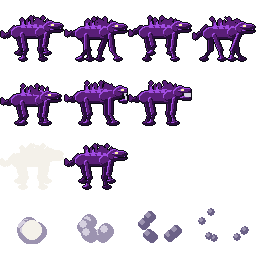
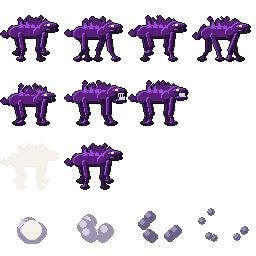
Shadowfall C2: every monster fits its cell (no margin clips); thinner wolf/hound teeth

diff --git a/shadowfall/art/src/make_monsters.py b/shadowfall/art/src/make_monsters.py
@@ -112,7 +112,6 @@ def build(name, w, h, fn, seed=1):
             return -min(hi - (P + n - 1), lo - (P + 1))
         return 0
     sx, sy = fit(box.left, box.right, w), fit(box.top, box.bottom, h)
-    print("DBG", name, w, "x", box.left - P, box.right - P, "y", box.top - P, box.bottom - P, sx, sy)
 
     def fr(ph, st=None):
         s = raw[ph, st].subsurface((P - sx, P - sy, w, h)).copy()
@@ -136,8 +135,8 @@ def build(name, w, h, fn, seed=1):
 
 # --- map monsters -------------------------------------------------------------------------
 def thornling(s, ph, st):
-    lean = (-2, 3, 1)[st] if st is not None else 0
-    cy = 14 + (2 if st == 0 else 0) - (round(abs(sin(ph))) if st is None else 0)
+    lean = (-1, 1, 1)[st] if st is not None else 0
+    cy = 15 + (1 if st in (0, 1) else 0) - (round(abs(sin(ph))) if st is None else 0)
     sw = round(sin(ph) * 3) if st is None else 0
     for i, hx in enumerate((12, 20)):
         o = sw * (1 - 2 * i)
@@ -149,7 +148,7 @@ def thornling(s, ph, st):
         if 240 < a < 300:
             continue
         r = math.radians(a)
-        ln = 8 if st == 1 else 5
+        ln = 6 if st == 1 else 5
         nx, ny = -sin(r), -cos(r)
         p = (cx + cos(r) * 8, cy - sin(r) * 8)
         tip = (cx + cos(r) * (8 + ln), cy - sin(r) * (8 + ln))
@@ -185,7 +184,7 @@ def barrow_wight(s, ph, st):
 
 
 def mere_lurker(s, ph, st):
-    step = (2.9, 3.5, 3.2)[st] if st is not None else 3.1
+    step = (2.7, 3.3, 3.0)[st] if st is not None else 2.9
     amp = 7 if st == 0 else 5
     o = (0, 1, .5)[st] if st is not None else .2 + .2 * (sin(ph) > 0)
     sp = []
@@ -212,9 +211,9 @@ def quad(s, ph, st, K):
     th = K["th"]
     c0 = 3 if st == 0 else 0
     b = 0 if st is not None else -round(abs(cos(ph)))
-    hd = (-3, 6, 2)[st] if st is not None else 0
+    hd = (-3, 4, 1)[st] if st is not None else 0
     by = 26 + c0 + b
-    hx, hy = 50 + hd, by + 2 + (2 if st == 0 else 0)
+    hx, hy = 48 + hd, by + 2 + (2 if st == 0 else 0)
     far, near = K["far"], K["body"]
 
     def leg(i, hip, isfar, po):
@@ -231,7 +230,7 @@ def quad(s, ph, st, K):
     for hip, isfar, po in ((18, 1, 0), (42, 1, pi)):
         leg(0, hip, isfar, po)
     # tail
-    tp = [(14 - i * 2.2, by + 4 + i * (1.3 if hnd else .6) + sin(ph + i * .6) * 2) for i in range(6)]
+    tp = [(14 - i * 1.3, by + 4 + i * (1.3 if hnd else .6) + sin(ph + i * .6) * 2) for i in range(6)]
     tr = [3 - i * .4 for i in range(6)] if hnd else [2.5 + i * .5 for i in range(6)]
     part(s, far, lambda t: chain(t, tp, tr))
     # ridge / mane
@@ -251,7 +250,7 @@ def quad(s, ph, st, K):
         poly(s, far[1], [(hx - 1, hy - 5), (hx + 1, hy - 12), (hx + 4, hy - 5)])
     part(s, near, lambda t: ellipse(t, W, hx - 7, hy - 6, 14, 12))
     o = (0, 1, .5)[st] if st is not None else 0
-    jaws(s, hx + 2, hy + 1, 12 if hnd else 10, 5, o, near, teeth=K["teeth"], gap=6)
+    jaws(s, hx + 2, hy + 1, 10, 5, o, near, teeth=K["teeth"], gap=6, tw=1, tl=3)
     if not hnd:
         poly(s, near[1], [(hx - 6, hy - 4), (hx - 3, hy - 13), (hx + 0, hy - 5)])
         poly(s, near[2], [(hx - 5, hy - 5), (hx - 3, hy - 11), (hx - 2, hy - 5)])
@@ -330,10 +329,10 @@ def ash_scarab(s, ph, st):
 
 
 def bog_wisp(s, ph, st):
-    dx = (-2, 4, 1)[st] if st is not None else 0
+    dx = (-1, 3, 1)[st] if st is not None else 0
     bob = 2 * sin(ph) if st is None else 0
     big = 1.3 if st == 1 else 1
-    sp = [(17 + dx - i * 2.1, 14 + bob + i * 1.5 + sin(ph + i * .8) * 2 * i / 7) for i in range(8)]
+    sp = [(17 + dx - i * 1.9, 14 + bob + i * 1.5 + sin(ph + i * .8) * 2 * i / 7) for i in range(8)]
     part(s, ("moss2", "moss3", "moss4"), lambda t: chain(t, sp, [7 * big - i * .8 for i in range(8)]))
     x, y = sp[0]
     circle(s, "light1", x - 2, y - 2, 3)
@@ -419,7 +418,7 @@ def gloom_slime(s, ph, st):
 
 
 def bone_crawler(s, ph, st):
-    dx = (-2, 3, 1)[st] if st is not None else 0
+    dx = (-1, 2, 1)[st] if st is not None else 0
     bob = -round(abs(sin(ph))) if st is None else 0
     gx = lambda x: x + dx
     for i, (hx, far) in enumerate(((7, 1), (12, 0), (17, 1), (21, 0))):
@@ -428,7 +427,7 @@ def bone_crawler(s, ph, st):
         lift = 2 * (cos(p) > .3) if st is None else 0
         fx, fy = hx + (hx - 14) // 2 + o + 1, 30 - lift
         if st is not None and i == 3:
-            fx, fy = (hx + 4, 17) if st == 0 else (hx + 10 + dx, 26) if st == 1 else (hx + 6, 24)
+            fx, fy = (hx + 4, 17) if st == 0 else (hx + 6 + dx, 26) if st == 1 else (hx + 6, 24)
         kx, ky = hx + (fx - hx) * .4 + (2 if hx > 14 else -2), 10 - (3 if st == 0 and i == 3 else 0)
         col = "ink3" if far else "ink5"
         pygame.draw.lines(s, c(col), False, [(gx(x) + OFF[0], y + OFF[1]) for x, y in ((hx, 17 + bob), (kx, ky), (fx, fy))], 1)
@@ -447,12 +446,12 @@ def bone_crawler(s, ph, st):
 
 
 def ember_imp(s, ph, st):
-    lean = (-2, 2, 0)[st] if st is not None else 0
+    lean = (-1, 1, 0)[st] if st is not None else 0
     bob = -round(abs(sin(ph))) if st is None else 0
     sw = round(sin(ph) * 3) if st is None else 0
     fl = round(sin(ph) * 3)
     poly(s, "ember1", [(13 + lean, 17 + bob), (5, 10 - fl + bob), (9, 12 + bob), (8, 18 + bob), (13 + lean, 19 + bob)])
-    tp = [(12 + lean - i * 2, 21 + bob - i * 1.3 + sin(ph + i) * 1.5) for i in range(5)]
+    tp = [(12 + lean - i * 1.6, 21 + bob - i * 1.3 + sin(ph + i) * 1.5) for i in range(5)]
     part(s, ("ember1", "ember2", "ember2"), lambda t: chain(t, tp, [1.5] * 5))
     circle(s, "light0", tp[-1][0] - 1, tp[-1][1] - 2, 2)
     px(s, "light1", tp[-1][0] - 1, tp[-1][1] - 2)
@@ -465,7 +464,7 @@ def ember_imp(s, ph, st):
     rect(s, "light1", 20 + lean, 8 + bob, 3, 2)
     px(s, "ink0", 22 + lean, 9 + bob)
     line(s, "ink0", (20 + lean, 12 + bob), (23 + lean, 12 + bob))
-    hand = ((12, 12), (26, 14), (21, 19))[st] if st is not None else (24 - sw, 20 + bob)
+    hand = ((12, 12), (24, 14), (21, 19))[st] if st is not None else (24 - sw, 20 + bob)
     part(s, ("ember1", "ember2", "ember3"), lambda t: limb(t, (19 + lean, 16 + bob), hand, 3))
     if st is not None:
         r = (2, 4, 1)[st]
@@ -532,7 +531,7 @@ def mire_toad(s, ph, st):
     sq = 2 if u < 0 or st == 0 else 0
     M = ("moss1", "moss2", "moss3")
     air = u > 0
-    part(s, M, lambda t: ellipse(t, W, 4 + ox - (4 if air else 0), 23 + oy + (-4 if air else 0), 12 + (4 if air else 0), 7 if not air else 4))
+    part(s, M, lambda t: ellipse(t, W, 4 + ox - (2 if air else 0), 23 + oy + (-4 if air else 0), 12 + (2 if air else 0), 7 if not air else 4))
     part(s, M, lambda t: (ellipse(t, W, 5 + ox, 11 + oy + sq, 22, 16 - sq), ellipse(t, W, 17 + ox, 11 + oy + sq, 12, 12 - sq),
                           ellipse(t, W, 6 + ox, 16 + oy + sq, 10, 12 - sq)))
     part(s, M, lambda t: limb(t, (22 + ox, 22 + oy), (25 + ox + (3 if air else 0), 29 + oy * 0 - (3 if air else 0)), 3))
@@ -545,25 +544,25 @@ def mire_toad(s, ph, st):
     px(s, "ink0", ex + 4, ey + 2)
     line(s, "ink0", (ex - 4, ey + 11), (ex + 7, ey + 9))
     if st == 1:
-        line(s, "ember2", (ex + 5, ey + 10), (30, ey + 10), 2)
-        circle(s, "ember2", 29, ey + 10, 2)
+        line(s, "ember2", (ex + 5, ey + 10), (28, ey + 10), 2)
+        circle(s, "ember2", 27, ey + 10, 2)
 
 
 def shade_(s, ph, st):
-    dx = (-2, 3, 1)[st] if st is not None else 0
-    bob = round(sin(ph) * 2) if st is None else 0
-    sp = [(19 + dx - i * 2.2, 9 + bob + i * 2.2 + sin(ph + i * .7) * 2 * i / 8) for i in range(9)]
+    dx = (-1, 2, 1)[st] if st is not None else 0
+    bob = round(sin(ph) * 1) if st is None else 0
+    sp = [(19 + dx - i * 1.8, 11 + bob + i * 1.8 + sin(ph + i * .7) * 2 * i / 8) for i in range(9)]
     for i, (hx, hy) in enumerate(((20, 14), (18, 16))):
         far = i == 0
-        tgt = ((17, 6), (31 - 1, 15 - i * 3), (26, 17 + i * 2))[st] if st is not None else (27 - i * 3, 17 + round(sin(ph + i) * 2) + 2 * i)
+        tgt = ((17, 6), (27, 15 - i * 3), (26, 17 + i * 2))[st] if st is not None else (27 - i * 3, 17 + round(sin(ph + i) * 2) + 2 * i)
         a = (hx + dx, hy + bob)
         part(s, ("shadow0", "shadow0", "shadow1") if far else ("shadow0", "shadow1", "shadow2"), lambda t, a=a, tgt=tgt: limb(t, a, tgt, 3))
         for dy in (-2, 0, 2):
             line(s, "shadow2", tgt, (tgt[0] + 2, tgt[1] + dy), 1)
     part(s, ("shadow0", "shadow1", "shadow2"), lambda t: chain(t, sp, [6.5 - i * .7 for i in range(9)]))
     hx, hy = sp[0]
-    poly(s, "shadow1", [(hx - 4, hy - 4), (hx - 5, hy - 11), (hx - 1, hy - 6)])
-    poly(s, "shadow1", [(hx + 3, hy - 4), (hx + 6, hy - 10), (hx + 5, hy - 3)])
+    poly(s, "shadow1", [(hx - 4, hy - 4), (hx - 5, hy - 9), (hx - 1, hy - 6)])
+    poly(s, "shadow1", [(hx + 3, hy - 4), (hx + 6, hy - 9), (hx + 5, hy - 3)])
     ellipse(s, "ink0", hx - 1, hy - 3, 9, 7)
     h = 2 if st == 1 else 1
     rect(s, "light1", hx + 1, hy - 1, 3, h)
@@ -595,7 +594,7 @@ def stone_warden(s, ph, st):
         part(s, cols, lambda t: (limb(t, (sx, sy), el, 12), limb(t, el, hand, 11), rock(t, hand[0], hand[1] + 2, 20, 18, seed)))
     sw = round(sin(ph) * 7) if st is None else 0
     far_h = (36 - sw, 58 + b) if st is None else ((34, 14), (70, 80), (66, 70))[st]
-    near_h = (66 + sw, 58 + b) if st is None else ((60, 6), (84, 82), (80, 70))[st]
+    near_h = (66 + sw, 58 + b) if st is None else ((60, 8), (84, 82), (80, 70))[st]
     arm(30, 30 + b, far_h, lg, 11)
     part(s, RK, lambda t: rock(t, 31, 32 + b, 20, 18, 2))
     part(s, RK, lambda t: rock(t, 66, 32 + b, 22, 20, 4))
@@ -656,7 +655,7 @@ def cinder_drake(s, ph, st):
     a = cos(ph) if st is None else (1, -.3, .3)[st]
     b = round(abs(sin(ph)) * -2) if st is None else (0, 0, 0)[st]
     sw = round(sin(ph) * 6) if st is None else 0
-    hdx, hdy = ((-6, 0), (4, 6), (0, 2))[st] if st is not None else (0, round(sin(ph) * 1))
+    hdx, hdy = ((-5, 0), (2, 6), (-1, 2))[st] if st is not None else (0, round(sin(ph) * 1))
     BD = ("ember1", "ember2", "ember3")
     DK = ("ember0", "ember0", "ember1")
 
@@ -673,7 +672,7 @@ def cinder_drake(s, ph, st):
     for hx, o in ((34, -sw), (58, sw)):
         part(s, DK, lambda t, hx=hx, o=o: (limb(t, (hx, 62 + b), (hx + 5 + o // 2, 76), 10), limb(t, (hx + 5 + o // 2, 76), (hx + o, 91), 7)))
     # tail
-    tp = [(26 - i * 3.6, 56 + b + i * 1.6 + sin(ph + i * .6) * 3) for i in range(8)]
+    tp = [(26 - i * 2.4, 56 + b + i * 1.6 + sin(ph + i * .6) * 3) for i in range(8)]
     part(s, BD, lambda t: chain(t, tp, [7 - i * .75 for i in range(8)]))
     poly(s, "ember3", [(tp[-1][0] - 1, tp[-1][1] - 3), (tp[-1][0] - 8, tp[-1][1] - 1), (tp[-1][0] - 1, tp[-1][1] + 4)])
     # neck + body
@@ -695,14 +694,14 @@ def cinder_drake(s, ph, st):
         circle(s, "ember3", hx + 8, hy + 1, 2)
     if st in (1, 2):
         fx, fy = hx + 14, hy + 1 + (2 if st == 1 else 0)
-        L = 94 - fx
+        L = 93 - fx
         if st == 1:
             poly(s, "ember3", [(fx, fy - 2), (fx + L, fy - 10), (fx + L, fy + 8), (fx, fy + 4)])
             poly(s, "light0", [(fx, fy - 1), (fx + L - 2, fy - 6), (fx + L - 2, fy + 5), (fx, fy + 3)])
             poly(s, "light1", [(fx, fy), (fx + L - 5, fy - 2), (fx + L - 5, fy + 2), (fx, fy + 2)])
         else:
             for i in range(3):
-                circle(s, "ember3" if i != 1 else "light0", fx + 3 + i * 4, fy - 3 + i * 3 - (i % 2) * 4, 2 - i % 2)
+                circle(s, "ember3" if i != 1 else "light0", fx + 1 + i * 3, fy - 3 + i * 3 - (i % 2) * 4, 2 - i % 2)
     # near legs
     for hx2, o in ((40, sw), (64, -sw)):
         part(s, BD, lambda t, hx2=hx2, o=o: (limb(t, (hx2, 62 + b), (hx2 + 5 + o // 2, 76), 11), limb(t, (hx2 + 5 + o // 2, 76), (hx2 + o, 90), 7),
